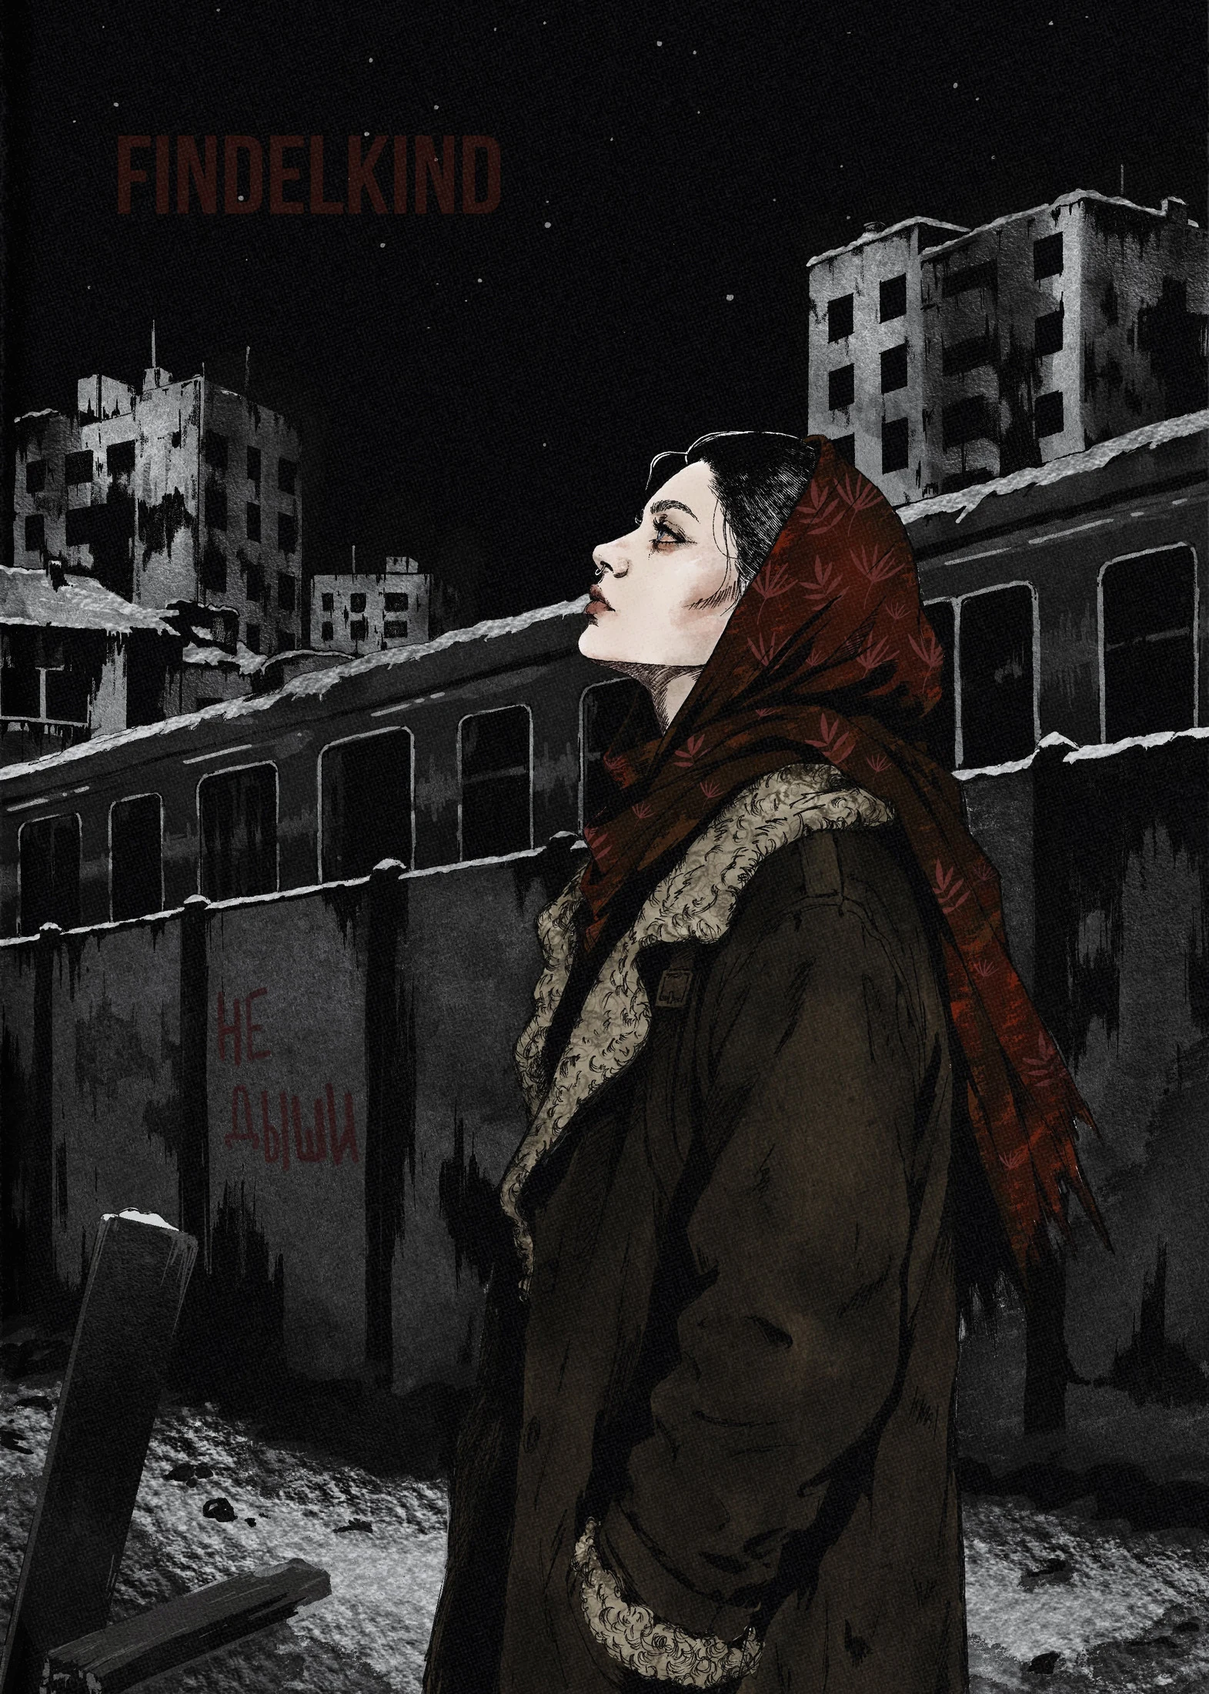
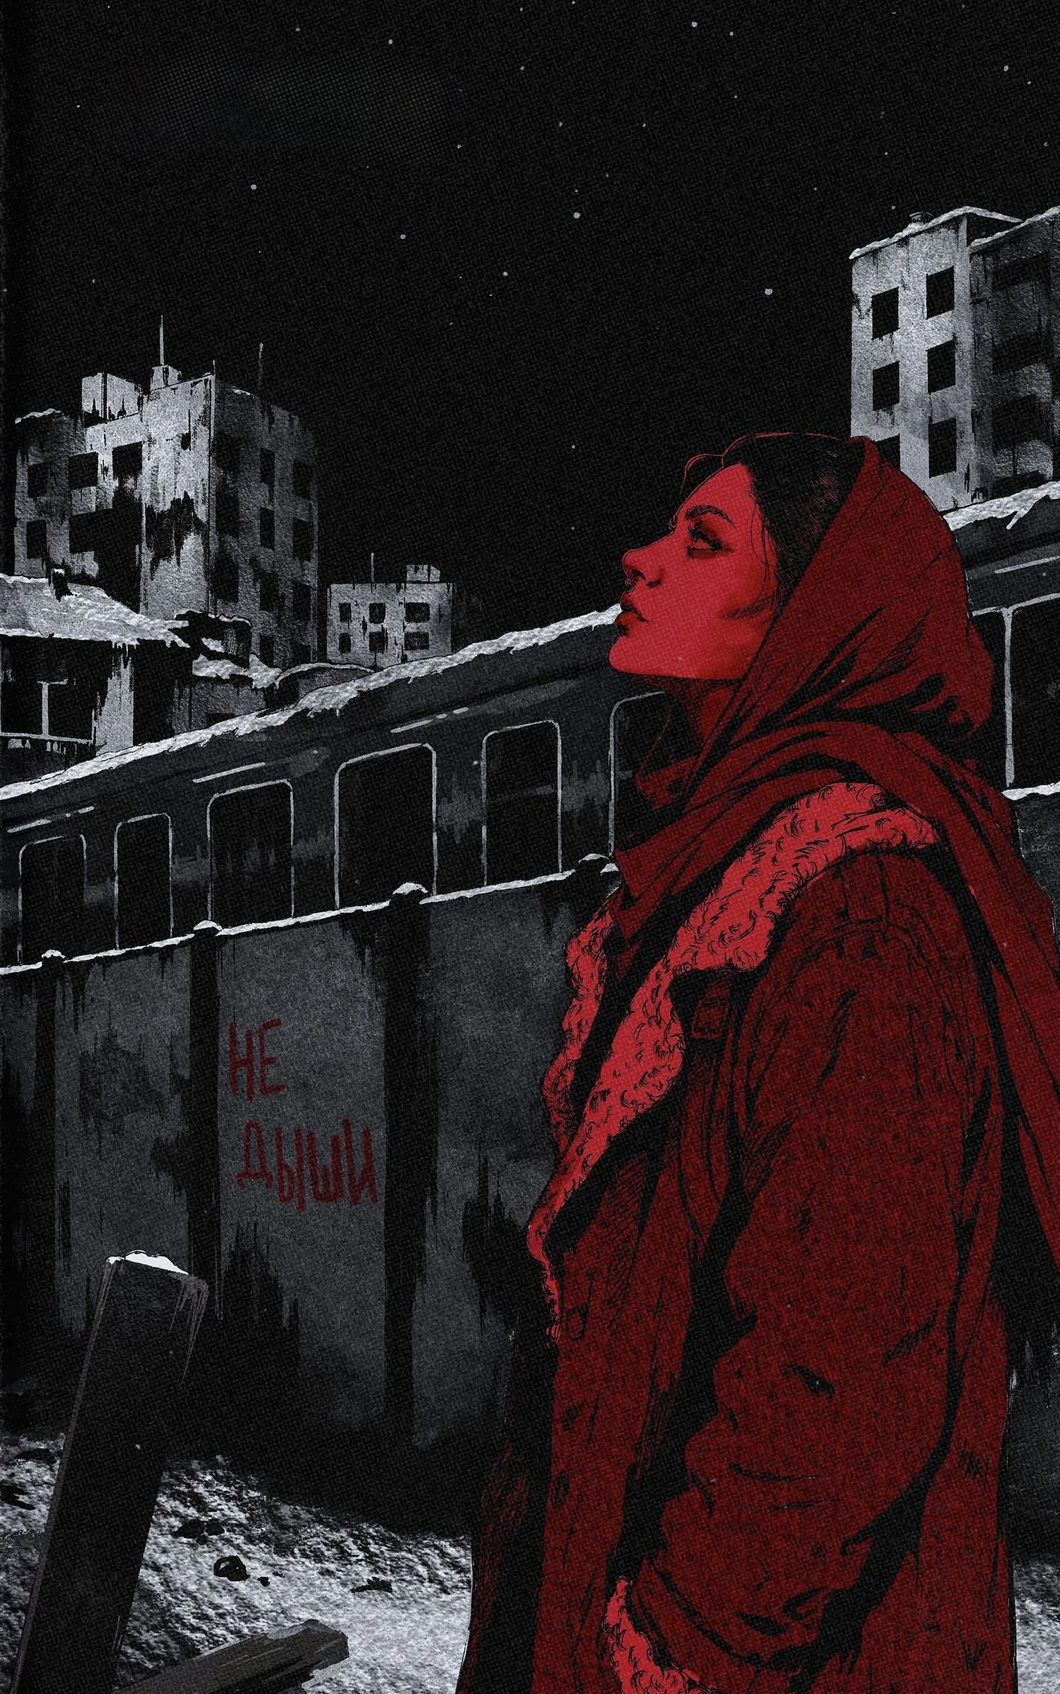
Add faces and style studies, update illustrations

diff --git a/art/index.html b/art/index.html
@@ -268,13 +268,15 @@ footer{background:var(--sky);color:#7f8fb1;font-size:13px;padding:0 0 28px}
         <button class="node unlocked" data-n="digital" data-p="artist" style="grid-row:2;grid-column:2"><span class="ic" data-sprite="tablet"></span><span class="nm"><span data-t="en">2D digital artist</span><span data-t="ru">2D digital-художница</span></span><span class="st"><span data-t="en">Main focus</span><span data-t="ru">Главный фокус</span></span></button>
         <button class="node unlocked" data-n="three-d" data-p="artist" style="grid-row:2;grid-column:3"><span class="ic" data-sprite="cube"></span><span class="nm"><span data-t="en">3D &amp; environments</span><span data-t="ru">3D и окружение</span></span><span class="st"><span data-t="en">5 works</span><span data-t="ru">5 работ</span></span></button>
 
-        <button class="node unlocked" data-n="illustration" data-p="digital" style="grid-row:3;grid-column:1"><span class="ic" data-sprite="face"></span><span class="nm"><span data-t="en">Illustration</span><span data-t="ru">Иллюстрация</span></span><span class="st"><span data-t="en">2 works</span><span data-t="ru">2 работы</span></span></button>
-        <button class="node unlocked" data-n="fan-art" data-p="digital" style="grid-row:3;grid-column:2"><span class="ic" data-sprite="heart"></span><span class="nm"><span data-t="en">Fan art</span><span data-t="ru">Фан-арт</span></span><span class="st"><span data-t="en">4 works</span><span data-t="ru">4 работы</span></span></button>
+        <button class="node unlocked" data-n="illustration" data-p="digital" style="grid-row:3;grid-column:1"><span class="ic" data-sprite="face"></span><span class="nm"><span data-t="en">Illustration</span><span data-t="ru">Иллюстрация</span></span><span class="st"><span data-t="en">3 works</span><span data-t="ru">3 работы</span></span></button>
+        <button class="node unlocked" data-n="fan-art" data-p="digital" style="grid-row:3;grid-column:2"><span class="ic" data-sprite="heart"></span><span class="nm"><span data-t="en">Fan art</span><span data-t="ru">Фан-арт</span></span><span class="st"><span data-t="en">3 works</span><span data-t="ru">3 работы</span></span></button>
         <button class="node unlocked" data-n="process" data-p="digital" style="grid-row:3;grid-column:3"><span class="ic" data-sprite="brush"></span><span class="nm"><span data-t="en">Range &amp; process</span><span data-t="ru">Диапазон и процесс</span></span><span class="st"><span data-t="en">Cartoon and realism</span><span data-t="ru">Мульт и реализм</span></span></button>
 
-        <button class="node unlocked" data-n="vn" data-p="illustration" style="grid-row:4;grid-column:1"><span class="ic" data-sprite="book"></span><span class="nm"><span data-t="en">Visual novel</span><span data-t="ru">Визуальная новелла</span></span><span class="st"><span data-t="en">Character and process</span><span data-t="ru">Персонаж и процесс</span></span></button>
+        <button class="node unlocked" data-n="faces" data-p="illustration" style="grid-row:4;grid-column:1"><span class="ic" data-sprite="masks"></span><span class="nm"><span data-t="en">Faces &amp; emotion</span><span data-t="ru">Лица и эмоции</span></span><span class="st"><span data-t="en">4 works</span><span data-t="ru">4 работы</span></span></button>
+        <button class="node unlocked" data-n="vn" data-p="faces" style="grid-row:5;grid-column:1"><span class="ic" data-sprite="book"></span><span class="nm"><span data-t="en">Visual novel</span><span data-t="ru">Визуальная новелла</span></span><span class="st"><span data-t="en">Character and process</span><span data-t="ru">Персонаж и процесс</span></span></button>
         <button class="node locked" data-n="cover" data-p="illustration fan-art" style="grid-row:4;grid-column:2"><span class="ic" data-sprite="scroll"></span><span class="lk" data-sprite="lock"></span><span class="nm"><span data-t="en">Book cover</span><span data-t="ru">Обложка книги</span></span><span class="bar2"><b></b></span></button>
         <button class="node unlocked" data-n="anatomy" data-p="process" style="grid-row:4;grid-column:3"><span class="ic" data-sprite="face"></span><span class="nm"><span data-t="en">Anatomy</span><span data-t="ru">Анатомия</span></span><span class="st"><span data-t="en">Gesture sketches</span><span data-t="ru">Быстрые наброски</span></span></button>
+        <button class="node unlocked" data-n="styles" data-p="anatomy" style="grid-row:5;grid-column:3"><span class="ic" data-sprite="nib"></span><span class="nm"><span data-t="en">Style studies</span><span data-t="ru">Стилевые штудии</span></span><span class="st"><span data-t="en">6 works</span><span data-t="ru">6 работ</span></span></button>
       </div>
     </div>
     <p class="hint"><span data-t="en">Glowing nodes are unlocked. Locked ones are projects in progress or under NDA.</span><span data-t="ru">Светящиеся навыки открыты, закрытые — проекты в работе или под NDA.</span></p>
@@ -304,8 +306,8 @@ footer{background:var(--sky);color:#7f8fb1;font-size:13px;padding:0 0 28px}
       <article class="det pxbox" data-d="digital" hidden>
         <div class="dhead"><span class="ic" data-sprite="tablet"></span><div><span class="label on"><span data-t="en">Main branch</span><span data-t="ru">Основная ветка</span></span><h3><span data-t="en">2D digital artist</span><span data-t="ru">2D digital-художница</span></h3></div></div>
         <div class="grid g3">
-          <figure><button class="tile mat smooth" data-cap="Original illustration" data-capru="Оригинальная иллюстрация"><img src="img/original-ruins.webp" width="1571" height="2200" loading="lazy" alt="Illustration of a red-haired woman among ruined buildings"></button></figure>
-          <figure><button class="tile mat smooth" data-cap="Ink, watercolour" data-capru="Тушь, акварель"><img src="img/elf-ink.webp" width="2065" height="2200" loading="lazy" alt="Ink and watercolour illustration of a woman at a balustrade with a red sun"></button></figure>
+          <figure><button class="tile mat smooth" data-cap="Original illustration" data-capru="Оригинальная иллюстрация"><img src="img/original-ruins.webp" width="1377" height="2200" loading="lazy" alt="Illustration of a woman in a red hood looking up at ruined buildings in the snow"></button></figure>
+          <figure><button class="tile mat smooth" data-cap="Ink, watercolour" data-capru="Тушь, акварель"><img src="img/elf-ink.webp" width="1201" height="1280" loading="lazy" alt="Ink and watercolour illustration of a woman at a balustrade with a red sun"></button></figure>
           <figure><button class="tile mat smooth" data-cap="Fan art, Resident Evil 4" data-capru="Фан-арт, Resident Evil 4"><img src="img/re4-fanart.webp" width="1736" height="2200" loading="lazy" alt="Resident Evil 4 fan art"></button></figure>
         </div>
         <p class="go" style="cursor:default;margin-top:18px">▶ <span data-t="en">More in Illustration, Fan art and Range &amp; process</span><span data-t="ru">Больше в узлах «Иллюстрация», «Фан-арт» и «Диапазон и процесс»</span></p>
@@ -314,8 +316,9 @@ footer{background:var(--sky);color:#7f8fb1;font-size:13px;padding:0 0 28px}
       <article class="det pxbox" data-d="illustration" hidden>
         <div class="dhead"><span class="ic" data-sprite="face"></span><div><span class="label on"><span data-t="en">Unlocked skill</span><span data-t="ru">Открытый навык</span></span><h3><span data-t="en">Illustration</span><span data-t="ru">Иллюстрация</span></h3></div></div>
         <div class="grid g3 two-small">
-          <figure><button class="tile mat smooth" data-cap="Original illustration" data-capru="Оригинальная иллюстрация"><img src="img/original-ruins.webp" width="1571" height="2200" loading="lazy" alt="Illustration of a red-haired woman among ruined buildings"></button><figcaption><span data-t="en">Original illustration</span><span data-t="ru">Оригинальная иллюстрация</span></figcaption></figure>
-          <figure><button class="tile mat smooth" data-cap="Ink, watercolour" data-capru="Тушь, акварель"><img src="img/elf-ink.webp" width="2065" height="2200" loading="lazy" alt="Ink and watercolour illustration of a woman at a balustrade with a red sun"></button><figcaption><span data-t="en">Ink, watercolour</span><span data-t="ru">Тушь, акварель</span></figcaption></figure>
+          <figure><button class="tile mat smooth" data-cap="Original illustration" data-capru="Оригинальная иллюстрация"><img src="img/original-ruins.webp" width="1377" height="2200" loading="lazy" alt="Illustration of a woman in a red hood looking up at ruined buildings in the snow"></button><figcaption><span data-t="en">Original illustration</span><span data-t="ru">Оригинальная иллюстрация</span></figcaption></figure>
+          <figure><button class="tile mat smooth" data-cap="Ink, watercolour" data-capru="Тушь, акварель"><img src="img/elf-ink.webp" width="1201" height="1280" loading="lazy" alt="Ink and watercolour illustration of a woman at a balustrade with a red sun"></button><figcaption><span data-t="en">Ink, watercolour</span><span data-t="ru">Тушь, акварель</span></figcaption></figure>
+          <figure><button class="tile mat smooth" data-cap="Original illustration" data-capru="Оригинальная иллюстрация"><img src="img/illu-halo.webp" width="831" height="1101" loading="lazy" alt="Painted illustration of a pale-haired woman wrapped in dark fabric with a golden halo"></button><figcaption><span data-t="en">Original illustration</span><span data-t="ru">Оригинальная иллюстрация</span></figcaption></figure>
         </div>
       </article>
 
@@ -325,7 +328,6 @@ footer{background:var(--sky);color:#7f8fb1;font-size:13px;padding:0 0 28px}
           <figure><button class="tile mat smooth" data-cap="Fan art, Resident Evil 4" data-capru="Фан-арт, Resident Evil 4"><img src="img/re4-fanart.webp" width="1736" height="2200" loading="lazy" alt="Resident Evil 4 fan art"></button><figcaption>Resident Evil 4</figcaption></figure>
           <figure><button class="tile mat smooth" data-cap="Fan art, The Amazing Digital Circus" data-capru="Фан-арт, The Amazing Digital Circus"><img src="img/tadc-fanart.webp" width="1432" height="2200" loading="lazy" alt="The Amazing Digital Circus fan art"></button><figcaption>The Amazing Digital Circus</figcaption></figure>
           <figure class="feature"><button class="tile mat smooth" data-cap="Fan art, Baldur's Gate 3" data-capru="Фан-арт, Baldur's Gate 3"><img src="img/bg3-fanart.webp" width="2200" height="1466" loading="lazy" alt="Baldur's Gate 3 fan art"></button><figcaption>Baldur's Gate 3</figcaption></figure>
-          <figure><button class="tile mat smooth" data-cap="Fan art, Gravity Falls" data-capru="Фан-арт, Gravity Falls"><img src="img/gf-fanart.webp" width="1650" height="2200" loading="lazy" alt="Gravity Falls fan art"></button><figcaption>Gravity Falls</figcaption></figure>
         </div>
       </article>
 
@@ -368,6 +370,17 @@ footer{background:var(--sky);color:#7f8fb1;font-size:13px;padding:0 0 28px}
         </div>
       </article>
 
+      <article class="det pxbox" data-d="faces" hidden>
+        <div class="dhead"><span class="ic" data-sprite="masks"></span><div><span class="label on"><span data-t="en">Unlocked skill</span><span data-t="ru">Открытый навык</span></span><h3><span data-t="en">Faces &amp; emotion</span><span data-t="ru">Лица и эмоции</span></h3></div></div>
+        <p class="lede"><span data-t="en">Different faces, features and types, and the emotion that makes each one read as a person: calm, mischief, pain, quiet confidence.</span><span data-t="ru">Разные лица, черты и типажи и эмоция, из-за которой каждое читается как живой человек: спокойствие, озорство, боль, тихая уверенность.</span></p>
+        <div class="grid g3 two-small">
+          <figure><button class="tile mat smooth" data-cap="Faces, line art" data-capru="Лица, лайн"><img src="img/face-1.webp" width="1649" height="2200" loading="lazy" alt="Ink line drawing of a girl with braids holding a wand"></button><figcaption><span data-t="en">Line art</span><span data-t="ru">Лайн</span></figcaption></figure>
+          <figure><button class="tile mat smooth" data-cap="Faces, nine characters, nine emotions" data-capru="Лица, девять персонажей и девять эмоций"><img src="img/face-2.webp" width="1486" height="2200" loading="lazy" alt="Group illustration of nine girls in school uniforms, each with a different expression"></button><figcaption><span data-t="en">Nine characters, nine emotions</span><span data-t="ru">Девять персонажей, девять эмоций</span></figcaption></figure>
+          <figure><button class="tile mat smooth" data-cap="Faces, line art" data-capru="Лица, лайн"><img src="img/face-3.webp" width="1649" height="2200" loading="lazy" alt="Ink portrait of a young man with curly hair"></button><figcaption><span data-t="en">Line art</span><span data-t="ru">Лайн</span></figcaption></figure>
+          <figure><button class="tile mat smooth" data-cap="Faces, dark illustration" data-capru="Лица, мрачная иллюстрация"><img src="img/face-4.webp" width="1416" height="1888" loading="lazy" alt="Dark illustration of a woman looking upward with blood on her face and neck"></button><figcaption><span data-t="en">Dark illustration</span><span data-t="ru">Мрачная иллюстрация</span></figcaption></figure>
+        </div>
+      </article>
+
       <article class="det pxbox" data-d="vn" hidden>
         <div class="dhead"><span class="ic" data-sprite="book"></span><div><span class="label on"><span data-t="en">Unlocked skill</span><span data-t="ru">Открытый навык</span></span><h3><span data-t="en">Visual novel</span><span data-t="ru">Визуальная новелла</span></h3></div></div>
         <p class="lede"><span data-t="en">An example of a visual novel character: a semi-realistic sprite in two emotions, and the whole process from sketch to final render. The commercial project I draw for is under NDA, so its art will appear here after release.</span><span data-t="ru">Пример персонажа для визуальной новеллы: полуреалистичный спрайт в двух эмоциях и весь процесс от скетча до финального рендера. Коммерческий проект, на котором я работаю, под NDA, поэтому его арты появятся здесь после релиза.</span></p>
@@ -385,6 +398,19 @@ footer{background:var(--sky);color:#7f8fb1;font-size:13px;padding:0 0 28px}
           <figure><button class="tile mat smooth" data-cap="Gesture sketches, 1 minute per pose" data-capru="Наброски, 1 минута на позу"><img src="img/1795621079197_image.png" width="2560" height="1919" loading="lazy" alt="Sheet of gesture sketches, 1 minute per pose"></button><figcaption><span data-t="en">1 minute</span><span data-t="ru">1 минута</span></figcaption></figure>
           <figure><button class="tile mat smooth" data-cap="Gesture sketches, 2 minutes per pose" data-capru="Наброски, 2 минуты на позу"><img src="img/1795621092998_image.png" width="2560" height="1919" loading="lazy" alt="Sheet of gesture sketches, 2 minutes per pose"></button><figcaption><span data-t="en">2 minutes</span><span data-t="ru">2 минуты</span></figcaption></figure>
           <figure><button class="tile mat smooth" data-cap="Gesture sketches, 5 minutes per pose" data-capru="Наброски, 5 минут на позу"><img src="img/1795621104584_image.png" width="2560" height="1919" loading="lazy" alt="Sheet of gesture sketches, 5 minutes per pose"></button><figcaption><span data-t="en">5 minutes</span><span data-t="ru">5 минут</span></figcaption></figure>
+        </div>
+      </article>
+
+      <article class="det pxbox" data-d="styles" hidden>
+        <div class="dhead"><span class="ic" data-sprite="nib"></span><div><span class="label on"><span data-t="en">Unlocked skill</span><span data-t="ru">Открытый навык</span></span><h3><span data-t="en">Style studies</span><span data-t="ru">Стилевые штудии</span></h3></div></div>
+        <p class="lede"><span data-t="en">Practice in other techniques: I study the styles of anime, manga and animated series by copying them, then bring what I learn into my own work.</span><span data-t="ru">Практика в чужих техниках: изучаю стили аниме, манги и мультсериалов через копирование и переношу находки в свои работы.</span></p>
+        <div class="grid g3 two-small">
+          <figure><button class="tile mat smooth" data-cap="Style study, Berserk" data-capru="Стилевая штудия, Berserk"><img src="img/style-1.webp" width="1649" height="2200" loading="lazy" alt="Ink style study of two Berserk characters"></button><figcaption>Berserk</figcaption></figure>
+          <figure><button class="tile mat smooth" data-cap="Style study, manga ink" data-capru="Стилевая штудия, манга-тушь"><img src="img/style-2.webp" width="1649" height="2200" loading="lazy" alt="Ink drawing of a face covered by two hands"></button><figcaption><span data-t="en">Manga ink</span><span data-t="ru">Манга-тушь</span></figcaption></figure>
+          <figure><button class="tile mat smooth" data-cap="Style study, Castlevania" data-capru="Стилевая штудия, Castlevania"><img src="img/style-3.webp" width="1649" height="2200" loading="lazy" alt="Sketch study in the style of the Castlevania animated series"></button><figcaption>Castlevania</figcaption></figure>
+          <figure><button class="tile mat smooth" data-cap="Style study, Evangelion" data-capru="Стилевая штудия, Evangelion"><img src="img/style-4.webp" width="1649" height="2200" loading="lazy" alt="Ink style study of three Evangelion characters"></button><figcaption>Evangelion</figcaption></figure>
+          <figure><button class="tile mat smooth" data-cap="Style study, animation sketch" data-capru="Стилевая штудия, анимационный скетч"><img src="img/style-5.webp" width="1920" height="1920" loading="lazy" alt="Sketch of a mouse with a crown casting a spell"></button><figcaption><span data-t="en">Animation-style sketch</span><span data-t="ru">Скетч в анимационном стиле</span></figcaption></figure>
+          <figure><button class="tile mat smooth" data-cap="Style study, Gravity Falls" data-capru="Стилевая штудия, Gravity Falls"><img src="img/gf-fanart.webp" width="1650" height="2200" loading="lazy" alt="Drawing in the style of Gravity Falls"></button><figcaption>Gravity Falls</figcaption></figure>
         </div>
       </article>
 
@@ -467,6 +493,8 @@ footer{background:var(--sky);color:#7f8fb1;font-size:13px;padding:0 0 28px}
     book:[".DDDDDDD.","DCCCCCCWD","DCYYYCCWD","DCCCCCCWD","DCRRRRCWD","DCCCCCCWD","DCCCCCCWD","DDDDDDDDD"],
     brush:[".......WW","......WWW",".....WWW.","....YYW..","...YYY...","..RRY....",".RRR.....","RRR......","RR......."],
     chip:[".K.K.K.K.","KKKKKKKKK",".KCCCCCK.","KKCWWWCKK",".KCWRWCK.","KKCWWWCKK",".KCCCCCK.","KKKKKKKKK",".K.K.K.K."],
+    masks:[".LLLL......","LLLLLL.....","LKLLKLWWWW.","LLLLLWWWWWW","LLKKLWKWWKW","LKLLKWWWWWW",".LLLLWKWWKW",".....WWKKWW","......WWWW."],
+    nib:["....KK...","...KYYK..","..KYYYYK.","..KYKYYK.","..KYKYYK.","...KYYK..","...KYYK..","....KK...","....K...."],
     lock:["..LLL..",".L...L.",".L...L.","lllllll","llLLLll","lllLlll","lllllll"],
     trophy:["TTTTTTT","TtTTTtT",".TTTTT.","..TTT..","...T...","..TTT..",".ttttt."],
     globe:["..CCC..",".CGGCC.","CCGGCGC","CCCGGCC","CGCCCGC",".CGCCC.","..CCC.."]
